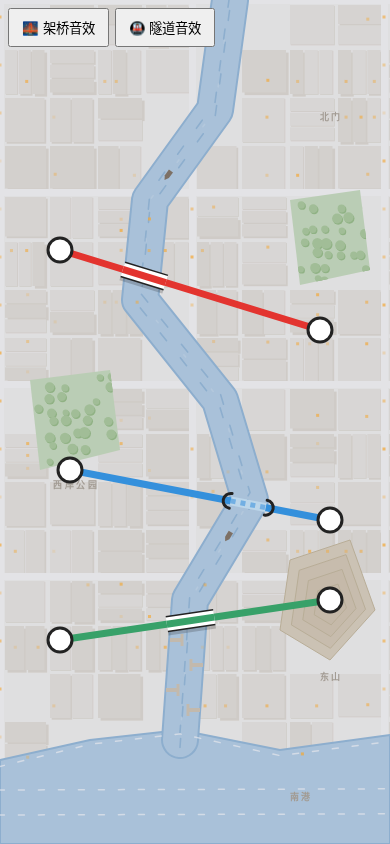
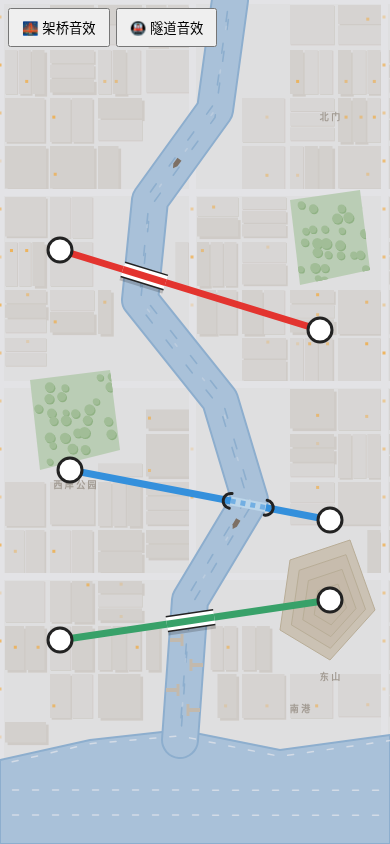
art(B6): 装饰不落水——屋顶按四角+中心查干地、窗灯/路灯离河离海、南港挪上岸 (#18)

diff --git a/src/art/basemap.ts b/src/art/basemap.ts
@@ -28,6 +28,8 @@ function buildStatic(map: LevelMap, dpr: number) {
   const lamps: Pt[] = [];
   c.fillStyle = P.street; c.fillRect(0, 0, W, H);
   const busy = (p: Pt) => isWater(p) || map.parks.some((pk) => pointInPolygon(p, pk)) || map.hills.some((h) => pointInPolygon(p, h));
+  // 装饰只落在干地上：不在水里、离河岸留余量、不进海
+  const dry = (p: Pt) => !busy(p) && distToRiver(p) > map.river.width / 2 + 4 && !pointInPolygon(p, map.sea);
   // 街区：大路每 4 格一条（更宽），其余是小巷；街区内切成 1~3 块屋顶，高度不同带落影
   for (let y = 0; y < H; y += G) for (let x = 0; x < W; x += G) {
     if (busy({ x: x + G / 2, y: y + G / 2 }) || hash(x, y) < 0.06) continue;
@@ -36,17 +38,19 @@ function buildStatic(map: LevelMap, dpr: number) {
     for (let i = 0; i < n; i++) {
       const lx = split ? l + ((r - l) * i) / n : l, ly = split ? t : t + ((b - t) * i) / n;
       const lw = split ? (r - l) / n - 1.5 : r - l, lh = split ? b - t : (b - t) / n - 1.5;
+      if (![[lx, ly], [lx + lw, ly], [lx, ly + lh], [lx + lw, ly + lh], [lx + lw / 2, ly + lh / 2]].every(([px, py]) => dry({ x: px, y: py }))) continue;
       const lv = Math.floor(hash(lx, ly) * 3), sh = 0.8 + lv * 0.9;
       c.fillStyle = P.roofShadow; c.fillRect(lx + sh, ly + sh, lw, lh);
       c.fillStyle = P.roofs[lv]; c.fillRect(lx, ly, lw, lh);
-      if (hash(ly, lx) < 0.45) lamps.push({ x: lx + 3 + hash(lx, 1) * (lw - 6), y: ly + 3 + hash(ly, 2) * (lh - 6) });
+      const lp = { x: lx + 3 + hash(lx, 1) * (lw - 6), y: ly + 3 + hash(ly, 2) * (lh - 6) };
+      if (hash(ly, lx) < 0.45 && dry(lp)) lamps.push(lp);
     }
   }
   // 大路浅色路面 + 路灯
   c.fillStyle = P.road;
   for (let x = 0; x < W; x += G * 4) c.fillRect(x - 3, 0, 7, H);
   for (let y = 0; y < H; y += G * 4) c.fillRect(0, y - 3, W, 7);
-  for (let x = 0; x < W; x += G * 4) for (let y = 17; y < H; y += G) if (!busy({ x, y }) && distToRiver({ x, y }) > map.river.width && !pointInPolygon({ x, y: y + 12 }, map.sea)) lamps.push({ x, y });
+  for (let x = 0; x < W; x += G * 4) for (let y = 17; y < H; y += G) if (dry({ x, y }) && distToRiver({ x, y }) > map.river.width && !pointInPolygon({ x, y: y + 12 }, map.sea)) lamps.push({ x, y });
   // 丘陵：由外到内逐层加深的等高线阴影（偏东南，像受西北光）
   for (const hl of map.hills) {
     const o = centroid(hl);
@@ -81,7 +85,7 @@ function buildStatic(map: LevelMap, dpr: number) {
   }
   // 地名：淡色小字，放在角落空地
   c.fillStyle = P.label; c.font = '600 9px system-ui, sans-serif'; c.textAlign = 'center';
-  for (const [s, x, y] of [['河 港 城', 70, 40], ['西 岸 公 园', 75, 488], ['东 山', 330, 680], ['南 港', 300, 800], ['北 门', 330, 120]] as const) c.fillText(s, x, y);
+  for (const [s, x, y] of [['河 港 城', 70, 40], ['西 岸 公 园', 75, 488], ['东 山', 330, 680], ['南 港', 300, 712], ['北 门', 330, 120]] as const) c.fillText(s, x, y);
   return { cv, lamps };
 }
 
